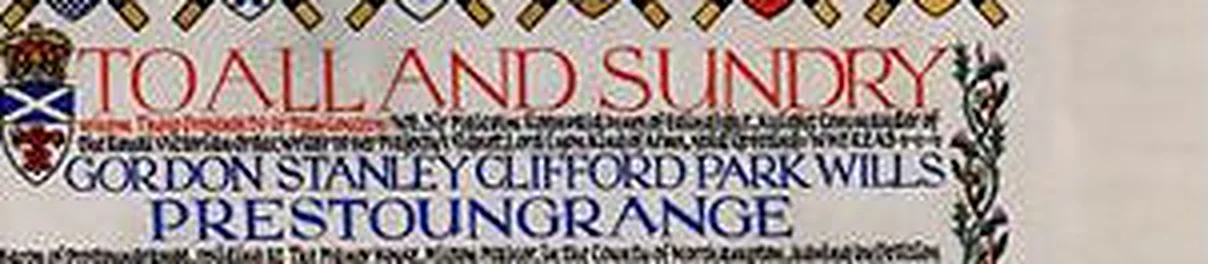
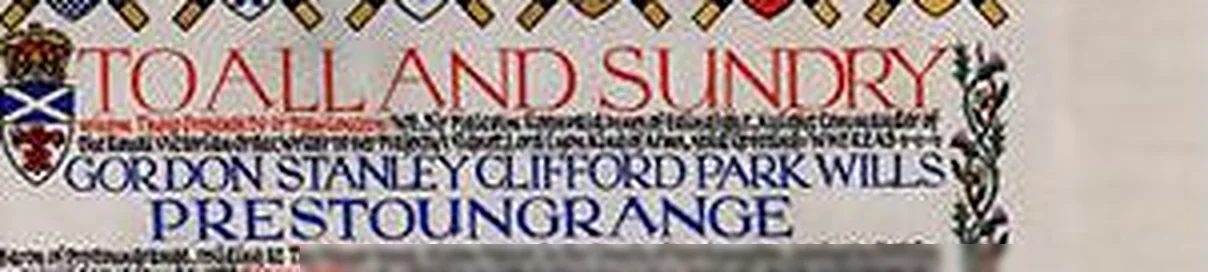
Reading Room (owner): Prestoungrange patent figure now shows the line beneath the name, 'Baron of Prestoungrange' (residence softened)

diff --git a/content/reading-room/how-a-scottish-baron-is-named-in-a-legal-document.md b/content/reading-room/how-a-scottish-baron-is-named-in-a-legal-document.md
@@ -120,8 +120,8 @@ A baroness in her own right takes the same form:
 A baron’s wife is designed with her forenames, her maiden and married surnames in the Scots manner, and the title. She signs as a peer’s wife signs, by her Christian name and the title, “Jane Inverness”: Menzies gives the peeresses’ form as “their Christian name prefixed to the title of nobility”, and Bell extends it to a wife “whose title arises from marriage”.[^42] That signature is valid; for a self-proving deed she signs as he does, her name with the title, “J. M. Smith, Lady Inverness”, unless the family has added the title to its name as a surname, when “Jane Inverness” is her name. A family may do that. The Lord Lyon’s Letters Patent of 1999 recognised the then Baron of Prestoungrange in the added surname, “Gordon Stanley Clifford Park Wills Prestoungrange”: Gordon Prestoungrange, Baron of Prestoungrange. With the title as surname, “G. Prestoungrange”, or a wife’s “Jane Prestoungrange”, is a signature in the name, self-proving deed included.[^43]
 
 <figure class="paper-figure">
-<img src="/images/reading-room/lyon-patent-1999-prestoungrange-heading.webp" alt="The heading of the Letters Patent of Lord Lyon Innes of Edingight, 22 September 1999: To All and Sundry, Gordon Stanley Clifford Park Wills Prestoungrange" width="1208" height="264" loading="lazy">
-<figcaption>The heading of Lord Lyon Innes of Edingight’s Letters Patent of 22 September 1999: “GORDON STANLEY CLIFFORD PARK WILLS PRESTOUNGRANGE”, the barony added to the name as surname. Enlarged from the copy on <a href="https://roll.baronage.com/baron/gordon-prestoungrange" target="_blank" rel="noopener noreferrer">the Roll of Scottish Barons</a>; the patent is recorded in the Public Register of All Arms and Bearings in Scotland.</figcaption>
+<img src="/images/reading-room/lyon-patent-1999-prestoungrange-heading.webp" alt="The heading of the Letters Patent of Lord Lyon Innes of Edingight, 22 September 1999: To All and Sundry, Gordon Stanley Clifford Park Wills Prestoungrange, and beneath it Baron of Prestoungrange; residence softened" width="1208" height="272" loading="lazy">
+<figcaption>The heading of Lord Lyon Innes of Edingight’s Letters Patent of 22 September 1999: “GORDON STANLEY CLIFFORD PARK WILLS PRESTOUNGRANGE”, and beneath it “Baron of Prestoungrange, residing at …”: the barony added to the name as surname, and the title after it. Residence softened. Enlarged from the copy on <a href="https://roll.baronage.com/baron/gordon-prestoungrange" target="_blank" rel="noopener noreferrer">the Roll of Scottish Barons</a>; the patent is recorded in the Public Register of All Arms and Bearings in Scotland.</figcaption>
 </figure>
 
 > **JANE MARY BROWN or SMITH, LADY INVERNESS**, residing at [address] **(“The Lady Inverness”)**
